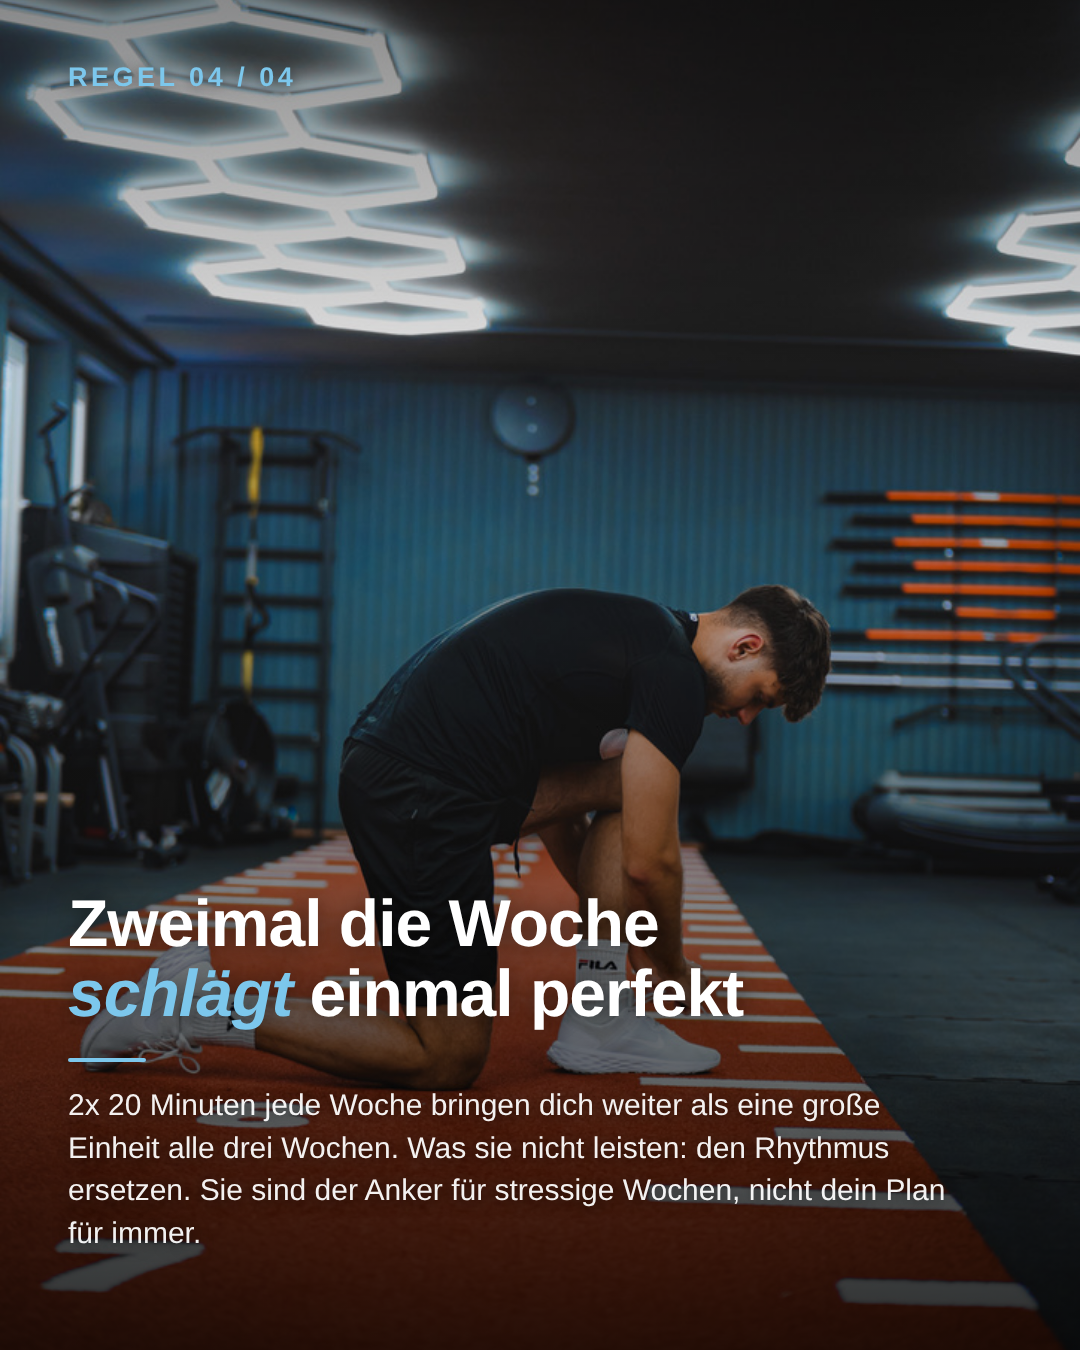
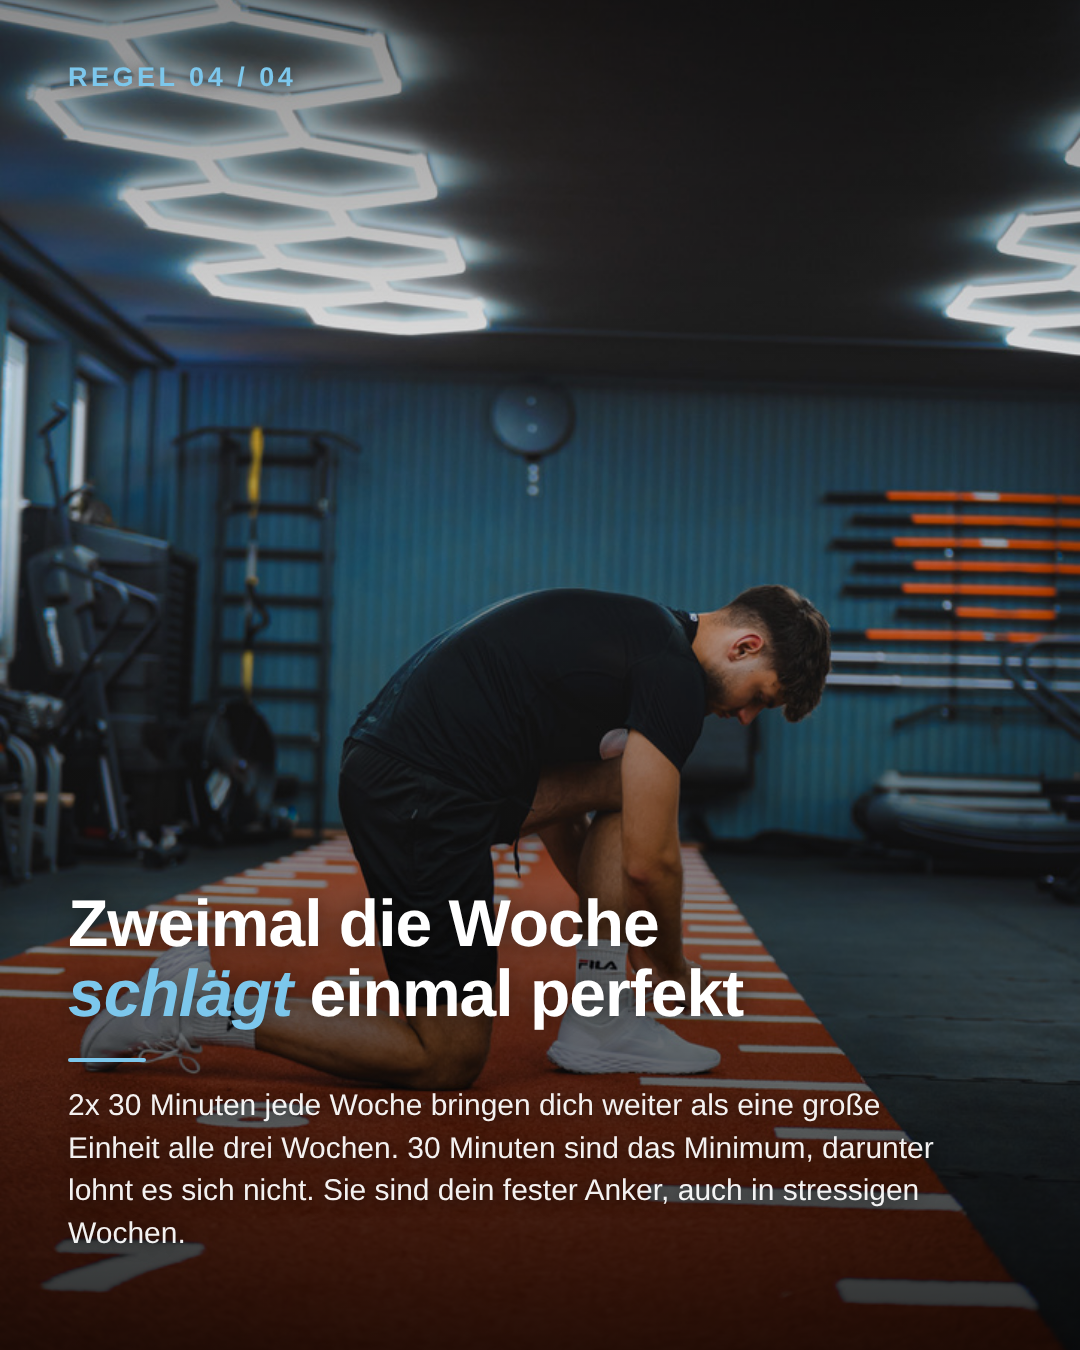
KW 44 Post 1 auf 30 Minuten umgestellt, 30-Minuten-Regel in Profil und Lessons
Aarons Ansatz ist 30 Minuten pro Einheit als absolutes Minimum; 20 Minuten
werden nie genannt. Slides neu gerendert, Regel dauerhaft eingetragen.

Claude-Session: https://claude.ai/code/session_019ERXHnrTBvwEuMGT5xLeRN

Changed region(s): [[0.0611, 0.84, 0.8861, 0.9333]]

diff --git a/posts/2026-W44/post-1.md b/posts/2026-W44/post-1.md
@@ -1,25 +1,25 @@
 ---
 status: entwurf
 woche: 2026-W44
-thema: Was 20 Minuten Training wirklich bringen — und was nicht
+thema: Was 30 Minuten Training wirklich bringen — und was nicht
 kategorie: Zeit und Aufwand
-zielgruppen-schmerz: "Ich habe schlicht keine Zeit für fünf Trainings die Woche." — 20 Minuten als ehrliche Untergrenze, nicht als Wundermittel.
+zielgruppen-schmerz: "Ich habe schlicht keine Zeit für fünf Trainings die Woche." — 30 Minuten als ehrliche Untergrenze, nicht als Wundermittel.
 render: post-1.slides.json → post-1-slides/
 ---
 
-# 20 Minuten Training: was sie wirklich bringen
+# 30 Minuten Training: was sie wirklich bringen
 
 ## Warum dieses Thema
 
 Oberstes offenes Backlog-Thema (Zeit und Aufwand). Der Post sagt der
 Zielgruppe, was in knapper Zeit funktioniert (wenige Grundübungen, Steigerung,
-fester Plan, Rhythmus) und was 20 Minuten nicht leisten (den Rhythmus ersetzen).
+fester Plan, Rhythmus) und was 30 Minuten nicht leisten (den Rhythmus ersetzen).
 
 ## Slides
 
 | # | Zähler | Headline | Foto |
 |---|---|---|---|
-| 1 | `1/5` | 20 Minuten Training: was sie *wirklich* bringen. | Kreuzheben im Gym (671CCEAB…) |
+| 1 | `1/5` | 30 Minuten Training: was sie *wirklich* bringen. | Kreuzheben im Gym (671CCEAB…) |
 | 2 | `REGEL 01 / 04` | Vier Übungen *schlagen* zehn | Aaron am Langhantelständer (AFDE5A60…) |
 | 3 | `REGEL 02 / 04` | Steigern *statt* verlängern | Kurzhanteln und Schuh (BDBFE79F….jpeg) |
 | 4 | `REGEL 03 / 04` | Der Plan steht *vorher* | Aaron mit Plan auf dem Tablet (5BAC2A36…) |
@@ -38,7 +38,7 @@ Alle Fotos stammen aus W35 und sind damit älter als 8 Wochen.
 ## Offene Punkte
 
 - Inhaltlich Coaching-Haltung, keine belegten Studienzahlen. Bitte prüfen, ob
-  "Vier Übungen, je 3 Sätze in 20 Minuten" so zu deinem Vorgehen passt.
+  "Vier Übungen, je 3 Sätze in 30 Minuten" so zu deinem Vorgehen passt.
 - Cover: Text liegt über Aarons Beinen/Gewichten, lesbar.
 
 ## Caption
@@ -49,7 +49,7 @@ Aber ich kann dir sagen: In 99% aller Fälle scheitert es nicht an der Länge de
 
 Fehlende Zeit, zu viele Übungen, kein Plan, kein fester Rhythmus, Stress, der Gedanke "ganz oder gar nicht", usw.
 
-❌ Eine kurze Einheit, die du hältst, schlägt die perfekte, die du nach drei Wochen abbrichst.
+❌ Eine Einheit von 30 Minuten, die du hältst, schlägt die perfekte, die du nach drei Wochen abbrichst.
 
 👉 Deshalb arbeite ich im Coaching mit wenigen Grundübungen, klarer Steigerung und einem Plan, der auch in stressigen Wochen funktioniert.
 

diff --git a/config/lessons.md b/config/lessons.md
@@ -9,3 +9,4 @@ macht denselben Fehler nicht noch mal.
 | 30.09.2026 | Hintergrundfotos passten teils nur als Stimmung, nicht zum Inhalt des Slides | Jedes Foto muss die Situation zeigen, über die der Slide spricht. Test und Beispiele stehen in `prompts/weekly-run.md` unter "Fotos zuordnen", Punkt 6. Im Zweifel kein Foto statt eines halb passenden. |
 | 05.10.2026 | Vier Wochen lang meldete der Lauf "Fotopool leer", während 16 Originale ungenutzt in Aarons Drive-Ordner lagen und nie auf dem Fotobranch ankamen. Dazu rendern HEIC-Uploads nicht. | Vor jedem Lauf prüfen, ob der Fotobranch den Stand des Drive-Ordners hat, und HEIC vor der Auswahl nach JPG wandeln. Wenn der Pool leer *wirkt*, ist das zuerst ein Transportproblem, keine Content-Entscheidung. |
 | 05.10.2026 | Zwei Wochen Posts existierten nur auf der Übersichtsseite, weil der Lauf nichts committet hat. Aaron konnte sie sehen, aber nicht hochladen. | Der Lauf ist erst fertig, wenn `posts/`, `FERTIG-ZUM-HOCHLADEN/` und die Config-Änderungen committet **und gepusht** sind. Eine aktualisierte Seite ohne Commit zählt nicht als Ergebnis. |
+| 19.10.2026 | Der Lauf nannte "20 Minuten" Training als Maß. Das ist nicht Aarons Ansatz. | **Aarons USP ist 30 Minuten pro Einheit, und das ist das absolute Minimum.** Nie "20 Minuten" oder weniger als Trainingsdauer nennen, auch nicht als Notfallversion. Kleinste Version = 30 Minuten. |

diff --git a/config/themen-backlog.md b/config/themen-backlog.md
@@ -22,7 +22,7 @@ Aaron: streich raus, was dir nicht passt, und schreib eigene dazu. Was hier
 oben steht, wird zuerst genommen.
 
 **Zeit und Aufwand**
-- [x] Was 20 Minuten Training wirklich bringen — und was nicht
+- [x] Was 30 Minuten Training wirklich bringen — und was nicht
 - [x] 4 Wege, Bewegung in einen Bürotag zu schmuggeln, ohne Sport zu treiben
 
 **Ernährung im Alltag**
@@ -59,5 +59,5 @@ oben steht, wird zuerst genommen.
 | 2026-W42 | Warum du nach 3 Wochen aufhörst | posts/2026-W42/post-2.md |
 | 2026-W43 | Woche komplett verpasst? So geht es weiter | posts/2026-W43/post-1.md |
 | 2026-W43 | 3 Dinge in deiner Küche, die abends für dich entscheiden | posts/2026-W43/post-2.md |
-| 2026-W44 | 20 Minuten Training: was sie wirklich bringen | posts/2026-W44/post-1.md |
+| 2026-W44 | 30 Minuten Training: was sie wirklich bringen | posts/2026-W44/post-1.md |
 | 2026-W44 | Warum ich am Anfang nicht über Training rede | posts/2026-W44/post-2.md |

diff --git a/FERTIG-ZUM-HOCHLADEN/2026-W44/REVIEW.md b/FERTIG-ZUM-HOCHLADEN/2026-W44/REVIEW.md
@@ -1,13 +1,13 @@
 # Review 2026-W44
 
 ## Themen
-1. **20 Minuten Training** (Zeit und Aufwand) — oberstes offenes Backlog-Thema, trifft "keine Zeit für fünf Trainings".
+1. **30 Minuten Training** (Zeit und Aufwand) — oberstes offenes Backlog-Thema, trifft "keine Zeit für fünf Trainings".
 2. **Warum ich am Anfang nicht über Training rede** (Mindset und Struktur) — Positionierung, trifft "im Gym klappt es, abends nicht".
 
 Nur **zwei Posts**: Der Pool gibt nicht mehr her.
 
 ## Du musst prüfen
-- Post 1: Stimmt "4 Übungen, je 3 Sätze in 20 Minuten" mit deinem Vorgehen?
+- Post 1: Stimmt "4 Übungen, je 3 Sätze in 30 Minuten" mit deinem Vorgehen?
 - Post 2: nur 3 Slides (Schlaf-Slide entfallen, siehe Post), Cover-Text knapp an deinem Gesicht.
 - Alle Texte sind Coaching-Haltung ohne Studienzahlen.
 

diff --git a/posts/2026-W44/_REVIEW.md b/posts/2026-W44/_REVIEW.md
@@ -1,13 +1,13 @@
 # Review 2026-W44
 
 ## Themen
-1. **20 Minuten Training** (Zeit und Aufwand) — oberstes offenes Backlog-Thema, trifft "keine Zeit für fünf Trainings".
+1. **30 Minuten Training** (Zeit und Aufwand) — oberstes offenes Backlog-Thema, trifft "keine Zeit für fünf Trainings".
 2. **Warum ich am Anfang nicht über Training rede** (Mindset und Struktur) — Positionierung, trifft "im Gym klappt es, abends nicht".
 
 Nur **zwei Posts**: Der Pool gibt nicht mehr her.
 
 ## Du musst prüfen
-- Post 1: Stimmt "4 Übungen, je 3 Sätze in 20 Minuten" mit deinem Vorgehen?
+- Post 1: Stimmt "4 Übungen, je 3 Sätze in 30 Minuten" mit deinem Vorgehen?
 - Post 2: nur 3 Slides (Schlaf-Slide entfallen, siehe Post), Cover-Text knapp an deinem Gesicht.
 - Alle Texte sind Coaching-Haltung ohne Studienzahlen.
 

diff --git a/config/profile.md b/config/profile.md
@@ -15,6 +15,7 @@ weiteren Post besser.
   kostenlose Analyse der größten Hebel.
 - **Tooling im Coaching:** nutrilize (Coaching-Zone, Gewichts- und
   Kalorienverlauf), DaFiTs PT-Studio Ludwigsburg
+- **USP / Ansatz:** 30 Minuten pro Trainingseinheit — das ist das absolute Minimum. Alles darunter (z. B. "20 Minuten") wird in Posts nie als Lösung genannt.
 - **Positionierung:** Training ist nur ein kleiner Teil. Der Fokus liegt am
   Anfang auf Lebensstil, Ernährungsgewohnheiten, Planung/Struktur und mentalen
   Blockaden — weil diese Dinge entscheiden, ob das Ergebnis *bleibt*.

diff --git a/FERTIG-ZUM-HOCHLADEN/2026-W44/UEBERSICHT.md b/FERTIG-ZUM-HOCHLADEN/2026-W44/UEBERSICHT.md
@@ -3,7 +3,7 @@
 Zwei Posts, fertig zum Hochladen. Je Post ein Ordner mit den
 Slides in Reihenfolge und der Caption als Textdatei.
 
-- **1 — 20 Minuten Training: was sie wirklich bringen** · 5 Slides  ⚠ siehe NOCH-ZU-PRUEFEN.txt
+- **1 — 30 Minuten Training: was sie wirklich bringen** · 5 Slides  ⚠ siehe NOCH-ZU-PRUEFEN.txt
 - **2 — Warum ich am Anfang nicht über Training rede** · 3 Slides  ⚠ siehe NOCH-ZU-PRUEFEN.txt
 
 Was du prüfen musst, steht in REVIEW.md.
